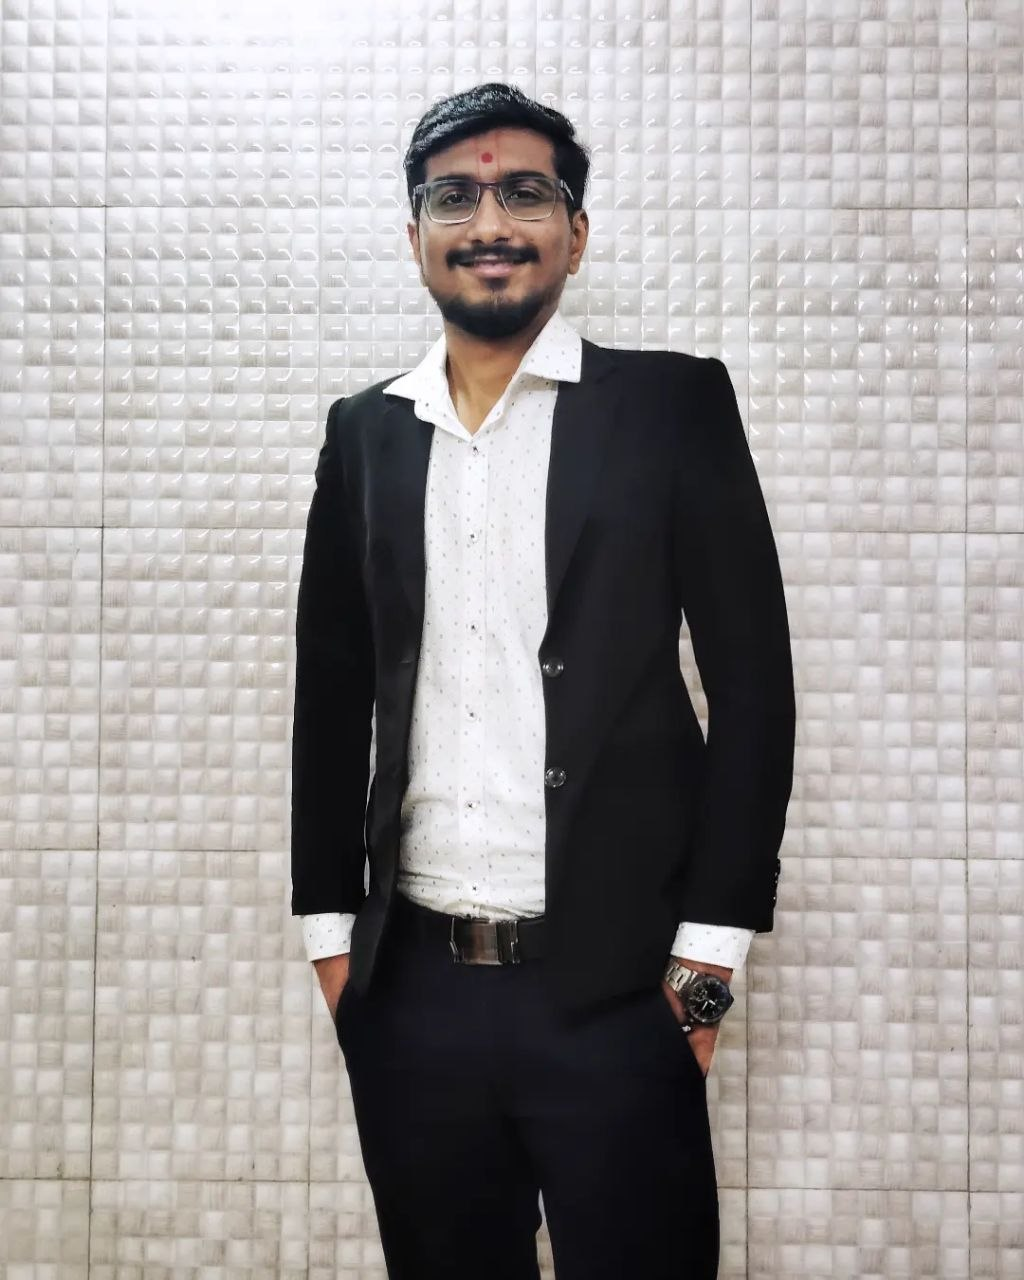
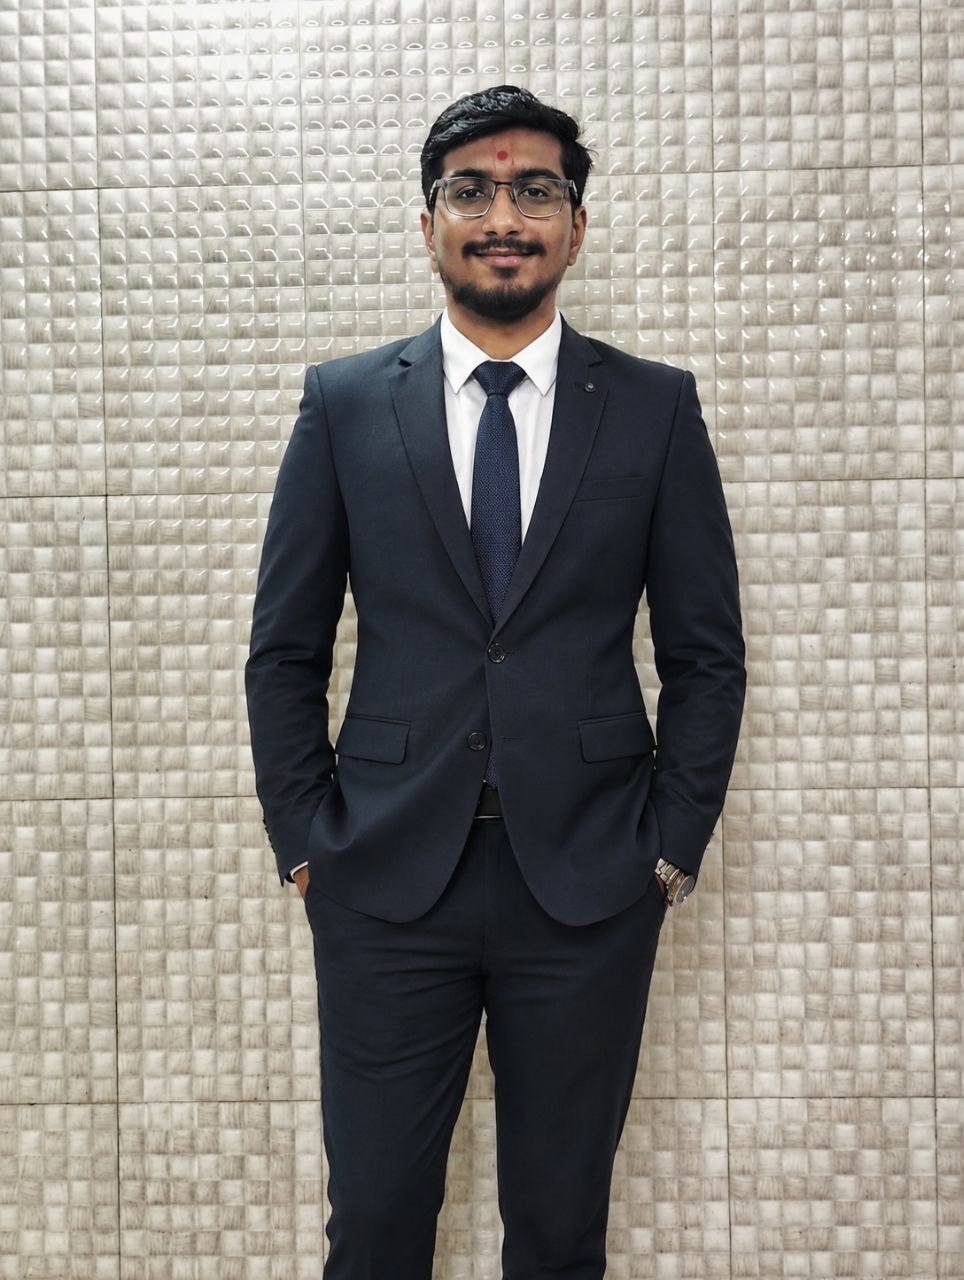
fix: update profile picture with styling

diff --git a/src/components/Navbar.tsx b/src/components/Navbar.tsx
@@ -1,7 +1,5 @@
-
 import { useState, useEffect } from 'react';
 import { Menu, X, Home, User, Code, FolderOpen, Mail } from 'lucide-react';
-import { Avatar, AvatarImage, AvatarFallback } from "@/components/ui/avatar";
 import { Button } from "@/components/ui/button";
 
 export default function Navbar() {
@@ -52,17 +50,22 @@ export default function Navbar() {
         <header className="fixed top-0 left-0 w-full z-50 bg-slate-950/90 backdrop-blur-xl border-b border-blue-500/20 shadow-2xl">
             <div className="max-w-7xl mx-auto px-6 h-22 flex items-center justify-between">
                 {/* Logo */}
-                <div className="flex items-center gap-3">
-                    <Avatar className="h-11 w-11 border-2 border-blue-500 shadow-md">
-                        <AvatarImage src="/profile-pic.jpg" alt="VIREN PATADIYA" />
-                        <AvatarFallback className="bg-blue-600 text-white font-bold">VP</AvatarFallback>
-                    </Avatar>
+                <div
+                    className="flex items-center gap-3 cursor-pointer"
+                    onClick={() => scrollToSection('hero')}
+                >
+                    <div className="h-11 w-11 rounded-full border-2 border-blue-500 shadow-md overflow-hidden">
+                        <img
+                            src="/profile-pic.jpg"
+                            alt="Viren Patadiya"
+                            className="w-full h-full object-cover object-top scale-125 cursor-pointer"
+                        />
+                    </div>
 
                     <button
-                        onClick={() => scrollToSection('hero')}
-                        className="text-2xl font-bold text-white"
+                        className="text-2xl font-bold text-white cursor-pointer"
                     >
-                        VIREN <span className="text-blue-500">PATADIYA</span>
+                        VIREN <span className="text-blue-500 cursor-pointer">PATADIYA</span>
                     </button>
                 </div>
 
@@ -73,8 +76,8 @@ export default function Navbar() {
                             key={id}
                             onClick={() => scrollToSection(id)}
                             className={`flex items-center gap-2 px-4 py-2 rounded-xl text-sm font-medium transition-all duration-300 cursor-pointer ${activeSection === id
-                                    ? "bg-blue-600 text-white shadow-md"
-                                    : "text-white/90 hover:bg-white/10 hover:text-white"
+                                ? "bg-blue-600 text-white shadow-md"
+                                : "text-white/90 hover:bg-white/10 hover:text-white"
                                 }`}
                         >
                             <Icon size={18} className="text-white" />
@@ -101,8 +104,8 @@ export default function Navbar() {
             {/* Mobile Navigation */}
             <div
                 className={`md:hidden overflow-hidden transition-all duration-300 ${isMobileMenuOpen
-                        ? "max-h-125 opacity-100"
-                        : "max-h-0 opacity-0"
+                    ? "max-h-125 opacity-100"
+                    : "max-h-0 opacity-0"
                     }`}
             >
                 <div className="px-6 pb-5 pt-2 bg-slate-900/95 border-t border-white/10">
@@ -112,8 +115,8 @@ export default function Navbar() {
                                 key={id}
                                 onClick={() => scrollToSection(id)}
                                 className={`flex items-center gap-3 px-4 py-3 rounded-xl transition ${activeSection === id
-                                        ? "bg-blue-600 text-white"
-                                        : "text-white/80 hover:bg-white/10"
+                                    ? "bg-blue-600 text-white"
+                                    : "text-white/80 hover:bg-white/10"
                                     }`}
                             >
                                 <Icon size={18} className="text-white" />

diff --git a/src/components/Hero.tsx b/src/components/Hero.tsx
@@ -1,5 +1,4 @@
 import { ArrowDown, Mail } from 'lucide-react';
-import { Avatar, AvatarImage, AvatarFallback } from "@/components/ui/avatar";
 import { useEffect, useState } from 'react';
 import { Button } from './ui/button';
 import { FaGithub, FaLinkedinIn } from "react-icons/fa";
@@ -82,15 +81,13 @@ export default function Hero() {
                             }`}
                     >
                         <div className="relative mb-6">
-                            <Avatar className="h-37 w-37 border-4 border-primary/80 shadow-2xl">
-                                <AvatarImage
+                            <div className="h-37 w-37 rounded-full border-4 border-blue-500 shadow-2xl overflow-hidden">
+                                <img
                                     src="/profile-pic.jpg"
                                     alt="Viren Patadiya"
+                                    className="w-full h-full object-cover object-top scale-125"
                                 />
-                                <AvatarFallback className="bg-primary text-white text-2xl font-bold">
-                                    VP
-                                </AvatarFallback>
-                            </Avatar>
+                            </div>
                         </div>
 
                         <h1 className="text-white text-4xl md:text-6xl font-bold mb-3">
